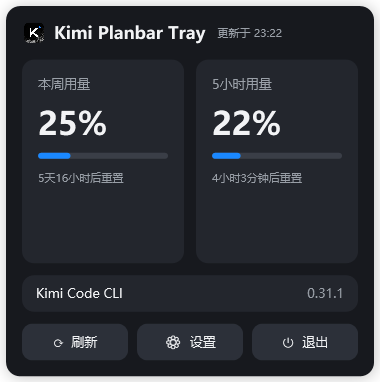
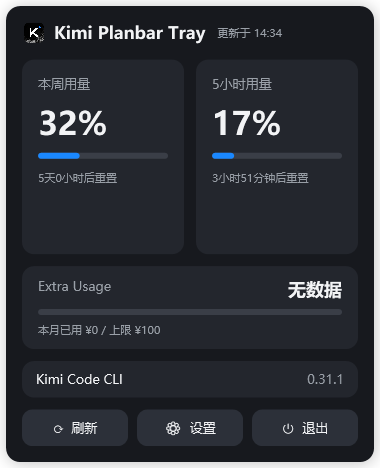
feat: v1.2.0 — Extra Usage card (booster wallet balance + monthly usage)

diff --git a/MainWindow.xaml b/MainWindow.xaml
@@ -2,7 +2,7 @@
         xmlns="http://schemas.microsoft.com/winfx/2006/xaml/presentation"
         xmlns:x="http://schemas.microsoft.com/winfx/2006/xaml"
         xmlns:primitives="clr-namespace:System.Windows.Controls.Primitives;assembly=PresentationFramework"
-        Width="380" Height="382" WindowStyle="None" AllowsTransparency="True"
+        Width="380" Height="468" WindowStyle="None" AllowsTransparency="True"
         Background="Transparent" Topmost="True" ShowInTaskbar="False"
         ResizeMode="NoResize">
     <Border x:Name="RootBorder" CornerRadius="14" Background="{DynamicResource WindowBgBrush}" Margin="6">
@@ -13,6 +13,7 @@
             <Grid.RowDefinitions>
                 <RowDefinition Height="Auto"/>
                 <RowDefinition Height="*"/>
+                <RowDefinition Height="Auto"/>
                 <RowDefinition Height="Auto"/>
                 <RowDefinition Height="Auto"/>
             </Grid.RowDefinitions>
@@ -67,8 +68,34 @@
                 </Border>
             </primitives:UniformGrid>
 
-            <!-- 版本行（整行点击跳转 Releases） -->
+            <!-- Extra Usage 卡片 -->
             <Border Grid.Row="2" Background="{DynamicResource CardBgBrush}" CornerRadius="12"
+                    Padding="16,12" Margin="0,12,0,0">
+                <StackPanel>
+                    <DockPanel>
+                        <TextBlock Text="Extra Usage" FontSize="13"
+                                   Foreground="{DynamicResource TextSecondaryBrush}"/>
+                        <TextBlock x:Name="ExtraBalance" Text="--" FontSize="18" FontWeight="Bold"
+                                   DockPanel.Dock="Right" HorizontalAlignment="Right"
+                                   Foreground="{DynamicResource TextPrimaryBrush}"/>
+                    </DockPanel>
+                    <StackPanel x:Name="ExtraMonthlyPanel" Margin="0,8,0,0" Visibility="Collapsed">
+                        <Grid Height="6">
+                            <Grid.ColumnDefinitions>
+                                <ColumnDefinition x:Name="ExtraBarCol" Width="0*"/>
+                                <ColumnDefinition x:Name="ExtraRestCol" Width="100*"/>
+                            </Grid.ColumnDefinitions>
+                            <Border Grid.ColumnSpan="2" CornerRadius="3" Background="{DynamicResource ProgressTrackBrush}"/>
+                            <Border Grid.Column="0" CornerRadius="3" Background="{DynamicResource AccentBrush}"/>
+                        </Grid>
+                        <TextBlock x:Name="ExtraMonthly" Text="" FontSize="11" Margin="0,8,0,0"
+                                   Foreground="{DynamicResource TextSecondaryBrush}"/>
+                    </StackPanel>
+                </StackPanel>
+            </Border>
+
+            <!-- 版本行（整行点击跳转 Releases） -->
+            <Border Grid.Row="3" Background="{DynamicResource CardBgBrush}" CornerRadius="12"
                     Padding="14,10" Margin="0,12,0,12" Cursor="Hand"
                     ToolTip="查看 Kimi Code Releases"
                     MouseLeftButtonUp="OpenReleases">
@@ -88,7 +115,7 @@
             </Border>
 
             <!-- 底部按钮 -->
-            <primitives:UniformGrid Grid.Row="3" Columns="3">
+            <primitives:UniformGrid Grid.Row="4" Columns="3">
                 <Button Content="⟳  刷新" Style="{StaticResource ActionButton}" Click="RefreshClick" Margin="0,0,6,0"/>
                 <Button Content="⚙  设置" Style="{StaticResource ActionButton}" Click="SettingsClick" Margin="3,0"/>
                 <Button Content="⏻  退出" Style="{StaticResource ActionButton}" Click="ExitClick" Margin="6,0,0,0"/>

diff --git a/Services/QuotaService.cs b/Services/QuotaService.cs
@@ -11,10 +11,23 @@ public class QuotaSegment
     public DateTimeOffset? ResetAt { get; set; }
 }
 
+public enum ExtraState { NotActivated, NoData, Ready }
+
+// Extra Usage（boosterWallet）：余额三态 + 月度已用/上限
+public class ExtraInfo
+{
+    public ExtraState State { get; set; }
+    public long? BalanceCents { get; set; }      // amountLeft（1e-8 元）换算到分
+    public bool MonthlyEnabled { get; set; }
+    public long? MonthlyUsedCents { get; set; }
+    public long? MonthlyLimitCents { get; set; }
+}
+
 public class QuotaResult
 {
     public QuotaSegment? FiveHour { get; set; }
     public QuotaSegment? Week { get; set; }
+    public ExtraInfo? Extra { get; set; }
     public DateTimeOffset FetchedAt { get; set; }
     public string? Error { get; set; }
 }
@@ -51,6 +64,7 @@ public class QuotaService : IDisposable
             {
                 r.FiveHour ??= Last.FiveHour;
                 r.Week ??= Last.Week;
+                r.Extra ??= Last.Extra;
             }
             Last = r;
             // 失败后 30 秒快速重试（对齐 quota-status.py 的 RETRY 策略），成功则回到正常周期
@@ -91,12 +105,65 @@ public class QuotaService : IDisposable
             }
             if (root.TryGetProperty("usage", out var u) && u.ValueKind == JsonValueKind.Object)
                 r.Week = ParseSegment(u);
+            r.Extra = ParseExtra(root.GetPropertyOrDefault("boosterWallet"));
             return r;
         }
         catch (Exception ex)
         {
             return new QuotaResult { Error = ex.GetType().Name, FetchedAt = DateTimeOffset.Now };
         }
+    }
+
+    // boosterWallet：余额三态（未开通/无数据/有值）+ 月度已用/上限
+    // 注意 JSON 数字皆为字符串；amountLeft 单位 1e-8 元，priceInCents 单位分
+    private static ExtraInfo ParseExtra(JsonElement? wallet)
+    {
+        var info = new ExtraInfo();
+        if (wallet == null || wallet.Value.ValueKind != JsonValueKind.Object)
+        {
+            info.State = ExtraState.NotActivated;
+            return info;
+        }
+        var w = wallet.Value;
+
+        if (w.GetPropertyOrDefault("balance") is { ValueKind: JsonValueKind.Object } bal
+            && bal.GetPropertyOrDefault("amountLeft") is JsonElement al
+            && TryGetLong(al, out long raw))
+        {
+            info.State = ExtraState.Ready;
+            info.BalanceCents = (raw + 500000) / 1000000; // 1e-8 元 → 分，四舍五入
+        }
+        else
+        {
+            info.State = ExtraState.NoData;
+        }
+
+        if (w.TryGetProperty("monthlyChargeLimitEnabled", out var en)
+            && en.ValueKind == JsonValueKind.True)
+        {
+            info.MonthlyEnabled = true;
+            info.MonthlyUsedCents = ParseCents(w.GetPropertyOrDefault("monthlyUsed"));
+            info.MonthlyLimitCents = ParseCents(w.GetPropertyOrDefault("monthlyChargeLimit"));
+        }
+        return info;
+    }
+
+    // JSON 数字按字符串建模（服务端惯例），容忍数字型兜底
+    private static bool TryGetLong(JsonElement e, out long v)
+    {
+        if (e.ValueKind == JsonValueKind.String) return long.TryParse(e.GetString(), out v);
+        if (e.ValueKind == JsonValueKind.Number) return e.TryGetInt64(out v);
+        v = 0;
+        return false;
+    }
+
+    private static long? ParseCents(JsonElement? money)
+    {
+        if (money is { ValueKind: JsonValueKind.Object } m
+            && m.TryGetProperty("priceInCents", out var p)
+            && TryGetLong(p, out long v))
+            return v;
+        return null;
     }
 
     private static QuotaSegment ParseSegment(JsonElement e)

diff --git a/MainWindow.xaml.cs b/MainWindow.xaml.cs
@@ -96,7 +96,44 @@ public partial class MainWindow : Window
         var r = App.Quota.Last;
         SetCard(WeekPct, WeekBarCol, WeekRestCol, WeekReset, r?.Week);
         SetCard(FivePct, FiveBarCol, FiveRestCol, FiveReset, r?.FiveHour);
+        RenderExtra(r?.Extra);
         LastUpdated.Text = r == null ? "" : r.Error != null ? "更新失败" : $"更新于 {r.FetchedAt.LocalDateTime:HH:mm}";
+    }
+
+    private void RenderExtra(ExtraInfo? e)
+    {
+        if (e == null)
+        {
+            ExtraBalance.Text = "--";
+            ExtraMonthlyPanel.Visibility = Visibility.Collapsed;
+            return;
+        }
+        ExtraBalance.Text = e.State switch
+        {
+            ExtraState.Ready => e.BalanceCents.HasValue ? FmtYuan(e.BalanceCents.Value) : "--",
+            ExtraState.NoData => "无数据",
+            _ => "未开通",
+        };
+        if (e.MonthlyEnabled && e.MonthlyLimitCents is > 0 && e.MonthlyUsedCents.HasValue)
+        {
+            double p = Math.Clamp((double)e.MonthlyUsedCents.Value / e.MonthlyLimitCents.Value * 100, 0, 100);
+            ExtraBarCol.Width = new GridLength(p, GridUnitType.Star);
+            ExtraRestCol.Width = new GridLength(100 - p, GridUnitType.Star);
+            ExtraMonthly.Text = $"本月已用 {FmtYuan(e.MonthlyUsedCents.Value)} / 上限 {FmtYuan(e.MonthlyLimitCents.Value)}";
+            ExtraMonthlyPanel.Visibility = Visibility.Visible;
+        }
+        else
+        {
+            ExtraMonthlyPanel.Visibility = Visibility.Collapsed;
+        }
+    }
+
+    // 分 → ¥ 显示，整元省略小数（编码安全：WPF 全程 UTF-16，无 GBK 环节）
+    private static string FmtYuan(long cents)
+    {
+        if (cents < 0) return "-" + FmtYuan(-cents);
+        long yuan = cents / 100, frac = cents % 100;
+        return "¥" + yuan + (frac > 0 ? "." + frac.ToString("00") : "");
     }
 
     private static void SetCard(System.Windows.Controls.TextBlock pct,

diff --git a/App.xaml.cs b/App.xaml.cs
@@ -59,13 +59,34 @@ public partial class App : Application
         }
 
         // 截图模式：真实额度数据 + 指定主题渲染悬浮窗为 PNG（供 README 使用）
-        // 用法：--screenshot <输出路径> [--dark]
+        // 用法：--screenshot <输出路径> [--dark] [--mock 用模拟数据（含 Extra 余额）]
         if (e.Args.Contains("--screenshot"))
         {
             int i = e.Args.ToList().IndexOf("--screenshot");
             var path = i + 1 < e.Args.Length ? e.Args[i + 1] : "screenshot.png";
             Theme.Apply(e.Args.Contains("--dark") ? "dark" : "light");
-            var r = Task.Run(() => Quota.FetchAsync()).GetAwaiter().GetResult();
+            QuotaResult? r;
+            if (e.Args.Contains("--mock"))
+            {
+                r = new QuotaResult
+                {
+                    FetchedAt = DateTimeOffset.Now,
+                    FiveHour = new QuotaSegment { Percent = 42, ResetAt = DateTimeOffset.Now.AddHours(3.5) },
+                    Week = new QuotaSegment { Percent = 68, ResetAt = DateTimeOffset.Now.AddDays(4) },
+                    Extra = new ExtraInfo
+                    {
+                        State = ExtraState.Ready,
+                        BalanceCents = 1234,
+                        MonthlyEnabled = true,
+                        MonthlyUsedCents = 4567,
+                        MonthlyLimitCents = 10000
+                    }
+                };
+            }
+            else
+            {
+                r = Task.Run(() => Quota.FetchAsync()).GetAwaiter().GetResult();
+            }
             Quota.Inject(r);
             Task.Run(() => Updates.CheckAsync()).GetAwaiter().GetResult();
             var w = new MainWindow();

diff --git a/README.md b/README.md
@@ -15,6 +15,7 @@ A lightweight Windows tray app that keeps your [Kimi Code](https://www.kimi.com/
 - **Light / dark themes** — "Moonlit" and "Moondark" palettes that follow the Windows system theme in real time (or pin one in Settings); accent color `#1A88FF`
 - **Resilient refresh** — auto-refresh on a configurable interval (1/5/10/30 min); on failure the last good values stay visible and a fast retry kicks in after 30 s
 - **CLI version check** — shows your local `kimi --version`; an orange badge appears when a newer release exists on [kimi-code Releases](https://github.com/MoonshotAI/kimi-code/releases) (click the row to open the page); fails silently when GitHub is unreachable
+- **Extra Usage card** — shows your booster wallet balance (¥) and monthly charge usage/limit; gracefully shows "not activated / no data" when the wallet has never been topped up
 - **Portable & UAC-free** — single exe, per-user only (HKCU autostart, no admin rights, nothing written to HKLM or Program Files); drop an empty `portable.dat` next to the exe to store settings beside it instead of `%APPDATA%`
 - **Small footprint** — ~195 KB single-file build, ~80 MB working set at runtime, no background polling beyond the refresh timer
 

diff --git a/README_CN.md b/README_CN.md
@@ -15,6 +15,7 @@
 - **亮暗双主题**——月之亮面 / 月之暗面，可跟随 Windows 系统主题实时切换（也可在设置里固定）；强调色 `#1A88FF`
 - **抗抖动刷新**——按设定间隔自动刷新（1/5/10/30 分钟）；失败时保留上一次成功的数据，30 秒后快速重试
 - **CLI 版本检测**——显示本机 `kimi --version`；[kimi-code Releases](https://github.com/MoonshotAI/kimi-code/releases) 有新版时出现橙色徽章（点击版本行直达发布页）；GitHub 不可达时静默降级
+- **Extra Usage 卡片**——显示 booster 钱包余额（¥）与本月已用/上限；未充值过时优雅显示"未开通 / 无数据"
 - **绿色免 UAC**——单 exe，仅操作用户域（自启走 HKCU，不碰 HKLM 和 Program Files）；在 exe 旁放一个空的 `portable.dat` 即切换为配置随身携带的便携模式
 - **占用小**——单文件版 ~195 KB，运行内存 ~80 MB，除刷新定时器外无任何后台轮询
 
